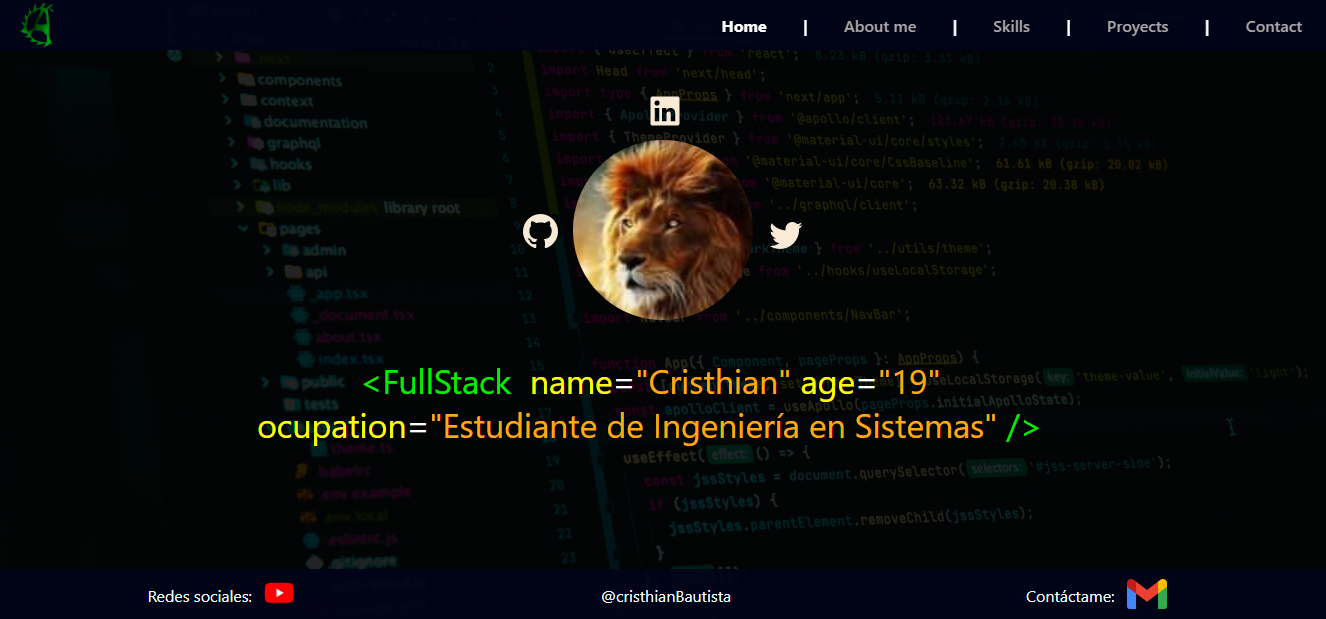
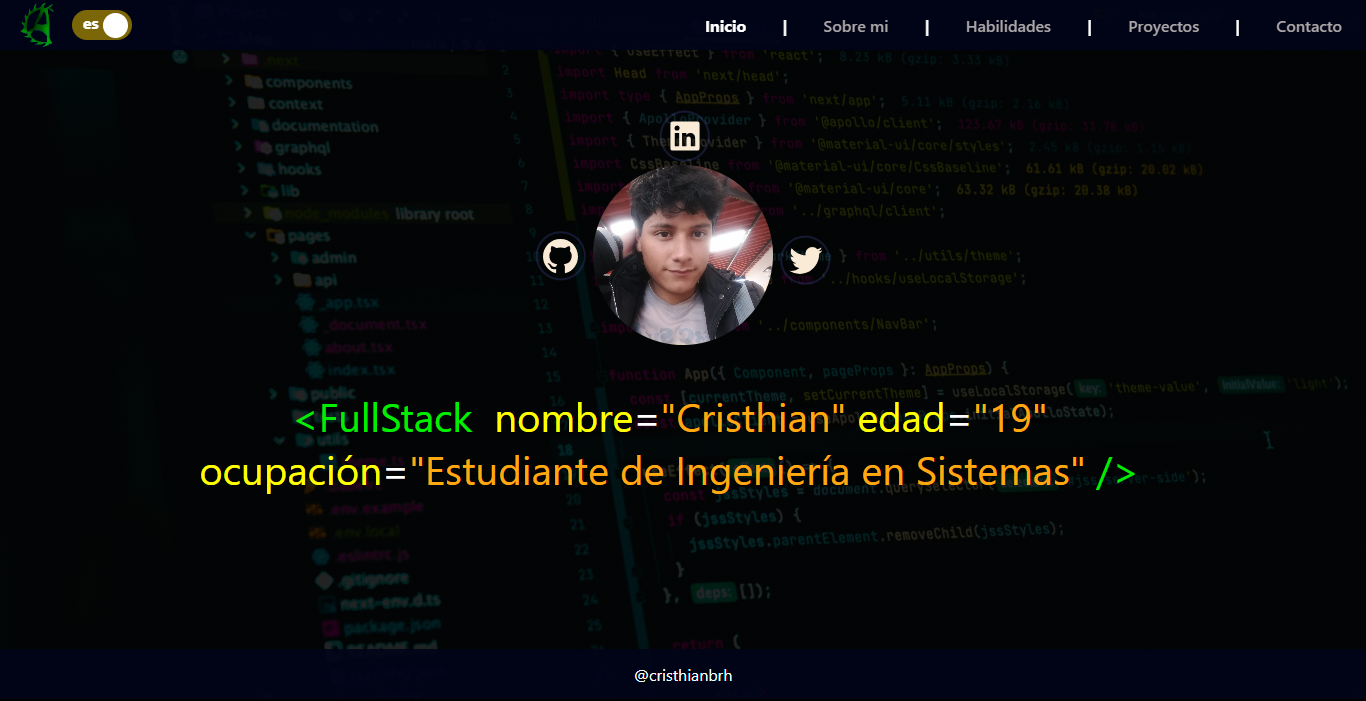
Style mejorado

diff --git a/src/components/sections/aboutMe/AboutMeSection.jsx b/src/components/sections/aboutMe/AboutMeSection.jsx
@@ -2,36 +2,45 @@ import { useContext } from "react";
 import "./AboutMeSection.css";
 import { LanguageF } from "../../../hooks/ContextLanguage";
 import languagePage from "./../../../sources/language/languagePage.json"
+import contactInfo from "../../../sources/info/contact.json"
 
-const AboutMeSection = ({visorRef}) => {
+const AboutMeSection = ({ visorRef }) => {
     const imgProfile = 'img/profile/profile.jpg';
-    const {language} = useContext(LanguageF)
+    const { language } = useContext(LanguageF)
 
-    return(
+    return (
         <section className="aboutMe" id="appSection1" ref={visorRef}>
-                <div className="aboutMe_imgs">
-                    <img src={imgProfile} />
-                    <div>
+            <div className="aboutMe_imgs">
+                <img src={imgProfile} />
+                <div>
+                    <a href={contactInfo.github} target="_blank">
+
                         <svg aria-hidden="true" viewBox="0 0 16 16" version="1.1" width="32" data-view-component="true" >
-                            <path  d="M8 0C3.58 0 0 3.58 0 8c0 3.54 2.29 6.53 5.47 7.59.4.07.55-.17.55-.38 0-.19-.01-.82-.01-1.49-2.01.37-2.53-.49-2.69-.94-.09-.23-.48-.94-.82-1.13-.28-.15-.68-.52-.01-.53.63-.01 1.08.58 1.23.82.72 1.21 1.87.87 2.33.66.07-.52.28-.87.51-1.07-1.78-.2-3.64-.89-3.64-3.95 0-.87.31-1.59.82-2.15-.08-.2-.36-1.02.08-2.12 0 0 .67-.21 2.2.82.64-.18 1.32-.27 2-.27.68 0 1.36.09 2 .27 1.53-1.04 2.2-.82 2.2-.82.44 1.1.16 1.92.08 2.12.51.56.82 1.27.82 2.15 0 3.07-1.87 3.75-3.65 3.95.29.25.54.73.54 1.48 0 1.07-.01 1.93-.01 2.2 0 .21.15.46.55.38A8.013 8.013 0 0016 8c0-4.42-3.58-8-8-8z"></path>
+                            <path d="M8 0C3.58 0 0 3.58 0 8c0 3.54 2.29 6.53 5.47 7.59.4.07.55-.17.55-.38 0-.19-.01-.82-.01-1.49-2.01.37-2.53-.49-2.69-.94-.09-.23-.48-.94-.82-1.13-.28-.15-.68-.52-.01-.53.63-.01 1.08.58 1.23.82.72 1.21 1.87.87 2.33.66.07-.52.28-.87.51-1.07-1.78-.2-3.64-.89-3.64-3.95 0-.87.31-1.59.82-2.15-.08-.2-.36-1.02.08-2.12 0 0 .67-.21 2.2.82.64-.18 1.32-.27 2-.27.68 0 1.36.09 2 .27 1.53-1.04 2.2-.82 2.2-.82.44 1.1.16 1.92.08 2.12.51.56.82 1.27.82 2.15 0 3.07-1.87 3.75-3.65 3.95.29.25.54.73.54 1.48 0 1.07-.01 1.93-.01 2.2 0 .21.15.46.55.38A8.013 8.013 0 0016 8c0-4.42-3.58-8-8-8z"></path>
                         </svg> {/* svg obtenida de la página oficial de github */}
-                        <svg viewBox="0 0 24 24" data-supported-dps="24x24" fill="currentColor"  width="32" focusable="false">
+                    </a>
+                    <a href={contactInfo.linkedin} target="_blank">
+
+                        <svg href={contactInfo.linkedin} viewBox="0 0 24 24" data-supported-dps="24x24" fill="currentColor" width="32" focusable="false">
                             <path d="M20.5 2h-17A1.5 1.5 0 002 3.5v17A1.5 1.5 0 003.5 22h17a1.5 1.5 0 001.5-1.5v-17A1.5 1.5 0 0020.5 2zM8 19H5v-9h3zM6.5 8.25A1.75 1.75 0 118.3 6.5a1.78 1.78 0 01-1.8 1.75zM19 19h-3v-4.74c0-1.42-.6-1.93-1.38-1.93A1.74 1.74 0 0013 14.19a.66.66 0 000 .14V19h-3v-9h2.9v1.3a3.11 3.11 0 012.7-1.4c1.55 0 3.36.86 3.36 3.66z"></path>
                         </svg> {/* svg obtenida de la página oficial de LinkedIn */}
+                    </a>
+                    <a >
                         <svg viewBox="0 0 24 24" aria-hidden="true" >
                             <g><path d="M23.643 4.937c-.835.37-1.732.62-2.675.733.962-.576 1.7-1.49 2.048-2.578-.9.534-1.897.922-2.958 1.13-.85-.904-2.06-1.47-3.4-1.47-2.572 0-4.658 2.086-4.658 4.66 0 .364.042.718.12 1.06-3.873-.195-7.304-2.05-9.602-4.868-.4.69-.63 1.49-.63 2.342 0 1.616.823 3.043 2.072 3.878-.764-.025-1.482-.234-2.11-.583v.06c0 2.257 1.605 4.14 3.737 4.568-.392.106-.803.162-1.227.162-.3 0-.593-.028-.877-.082.593 1.85 2.313 3.198 4.352 3.234-1.595 1.25-3.604 1.995-5.786 1.995-.376 0-.747-.022-1.112-.065 2.062 1.323 4.51 2.093 7.14 2.093 8.57 0 13.255-7.098 13.255-13.254 0-.2-.005-.402-.014-.602.91-.658 1.7-1.477 2.323-2.41z"></path></g>
                         </svg> {/* svg obtenida de la página oficial de twiter */}
-                    </div>
+                    </a>
                 </div>
-                <div className="aboutMe_text">
-                    <p>{languagePage.AboutMe[language].aboutMe_text[0]}</p>
-                    <p>
-                        {languagePage.AboutMe[language].aboutMe_text[1]}<br />
-                        {languagePage.AboutMe[language].aboutMe_text[2]} <em>{languagePage.AboutMe[language].aboutMe_text[3]}</em>{languagePage.AboutMe[language].aboutMe_text[4]}<br />
-                        {languagePage.AboutMe[language].aboutMe_text[5]}<br />
-                    </p>
-                </div>
-            </section>
+            </div>
+            <div className="aboutMe_text">
+                <p>{languagePage.AboutMe[language].aboutMe_text[0]}</p>
+                <p>
+                    {languagePage.AboutMe[language].aboutMe_text[1]}<br />
+                    {languagePage.AboutMe[language].aboutMe_text[2]} <em>{languagePage.AboutMe[language].aboutMe_text[3]}</em>{languagePage.AboutMe[language].aboutMe_text[4]}<br />
+                    {languagePage.AboutMe[language].aboutMe_text[5]}<br />
+                </p>
+            </div>
+        </section>
     )
 }
 export default AboutMeSection;

diff --git a/src/components/sections/presentation/PresentationSection.jsx b/src/components/sections/presentation/PresentationSection.jsx
@@ -2,6 +2,7 @@ import "./PresentationSection.css";
 import languagePage from "./../../../sources/language/languagePage.json"
 import { useContext } from "react";
 import { LanguageF } from "../../../hooks/ContextLanguage";
+import contactInfo from "../../../sources/info/contact.json"
 
 const PresentationSection = ({ visorRef }) => {
     const {language} = useContext(LanguageF)
@@ -27,12 +28,12 @@ const PresentationSection = ({ visorRef }) => {
         <section className="presentation" id="appSection0" ref={visorRef}>
             <div className="presentationImgs">
                 <div className="presentationImgSvgCont">
-                    <a href="https://github.com/cristhianbrh" target="_blank">
+                    <a href={contactInfo.github} target="_blank">
                         <svg aria-hidden="true" viewBox="0 0 16 16" version="1.1" width="32" data-view-component="true">
                             <path  d="M8 0C3.58 0 0 3.58 0 8c0 3.54 2.29 6.53 5.47 7.59.4.07.55-.17.55-.38 0-.19-.01-.82-.01-1.49-2.01.37-2.53-.49-2.69-.94-.09-.23-.48-.94-.82-1.13-.28-.15-.68-.52-.01-.53.63-.01 1.08.58 1.23.82.72 1.21 1.87.87 2.33.66.07-.52.28-.87.51-1.07-1.78-.2-3.64-.89-3.64-3.95 0-.87.31-1.59.82-2.15-.08-.2-.36-1.02.08-2.12 0 0 .67-.21 2.2.82.64-.18 1.32-.27 2-.27.68 0 1.36.09 2 .27 1.53-1.04 2.2-.82 2.2-.82.44 1.1.16 1.92.08 2.12.51.56.82 1.27.82 2.15 0 3.07-1.87 3.75-3.65 3.95.29.25.54.73.54 1.48 0 1.07-.01 1.93-.01 2.2 0 .21.15.46.55.38A8.013 8.013 0 0016 8c0-4.42-3.58-8-8-8z"></path>
                         </svg> {/* svg obtenida de la página oficial de github */}
                     </a>
-                    <a href="https://www.linkedin.com/in/cristhian-alexander-bautista-ruiz-25b74b25b/" target="_blank">
+                    <a href={contactInfo.linkedin} target="_blank">
                         <svg viewBox="0 0 24 24" data-supported-dps="24x24" fill="currentColor"  width="32" focusable="false">
                             <path d="M20.5 2h-17A1.5 1.5 0 002 3.5v17A1.5 1.5 0 003.5 22h17a1.5 1.5 0 001.5-1.5v-17A1.5 1.5 0 0020.5 2zM8 19H5v-9h3zM6.5 8.25A1.75 1.75 0 118.3 6.5a1.78 1.78 0 01-1.8 1.75zM19 19h-3v-4.74c0-1.42-.6-1.93-1.38-1.93A1.74 1.74 0 0013 14.19a.66.66 0 000 .14V19h-3v-9h2.9v1.3a3.11 3.11 0 012.7-1.4c1.55 0 3.36.86 3.36 3.66z"></path>
                         </svg> {/* svg obtenida de la página oficial de LinkedIn */}

diff --git a/src/components/footer/FooterComponent.jsx b/src/components/footer/FooterComponent.jsx
@@ -4,17 +4,17 @@ import socialMedia_gmail from "./../../sources/img/socialMedia/gmail-Icon.png";
 const FooterComponent = () => {
     return (
         <footer>
-            <div>
+            {/* <div>
                 <p>Redes sociales:</p>
                 <img src={socialMedia_youtube} alt="YouTube" />
-            </div>
+            </div> */}
             <div>
-                <p>@cristhianBautista</p>
+                <p>@cristhianbrh</p>
             </div>
-            <div>
+            {/* <div>
                 <p>Contáctame:</p>
                 <img src={socialMedia_gmail} alt="Gmail" />
-            </div>
+            </div> */}
         </footer>
     )
 }

diff --git a/src/components/proyect/ProyectComponent.css b/src/components/proyect/ProyectComponent.css
@@ -1,7 +1,7 @@
 /* Proyects */div.ProyectComponentClass {
     /* width: fit-content; */
-    width: clamp(18.75rem, 40vw,31.25rem);
-    /* max-width: 500px; */
+    /* width: clamp(18.75rem, 40vw,31.25rem); */
+    max-width: 400px;
     /* min-width: 300px; */
     height: 90%;
     margin: auto;
@@ -50,6 +50,7 @@ div.ProyectComponentClass>div.imagesProyectsDisplay {
     padding-top: 5px;
     position: relative;
     cursor: pointer;
+    align-items: center;
 }
 .__visibleNot{
     display: none;
@@ -109,3 +110,4 @@ div.ProyectComponentClass>div.proyectsTecProyect>div>img {
     /* height: 50px; */
     height: clamp(2.5rem, 5vw, 3.125rem);
 }
+

diff --git a/src/components/ImagesView/ImagesViewComponent.jsx b/src/components/ImagesView/ImagesViewComponent.jsx
@@ -46,9 +46,10 @@ const ImagesViewComponent = ({ proyect, imgComplete, setImgComplete }) => {
                 Path: "img/devices/Mobile.png",
                 StyleBorderImage: {
                     borderWidth: "18px 15px 16px 15px",
-                    borderImageSource: 'url(img/devices/Mobile.png)',
+                    WebkitBorderImage: 'round',
                     borderImageSlice: "2% 4% 3.5% 4% fill",
                     borderImageRepeat: "initial",
+                    
                     borderImageWidth: "18px 15px 16px 15px",
                     borderStyle: "solid",
                     borderRadius: "42px"

diff --git a/src/components/skillImage/SkillImageComponent.css b/src/components/skillImage/SkillImageComponent.css
@@ -1,7 +1,8 @@
 .SkillImageComponent {
     position: relative;
     width: fit-content;
-    
+    display: flex;
+    justify-content: center;
 }
 
 .SkillImageComponentSpan {
@@ -22,6 +23,7 @@
 .SkillImageComponentSpan__Active {
     display: block;
     /* top: -40%; */
+    /* right: -50%; */
     color: green;
     animation: spanActive both .5s linear;
     transition: 5s all;
@@ -40,7 +42,7 @@
         opacity: 0;
     }
     100%{
-        top: -40%;
+        top: -50%;
         opacity: 1;
     }
 }

diff --git a/src/components/footer/FooterComponent.css b/src/components/footer/FooterComponent.css
@@ -17,15 +17,13 @@ footer>div
 {
     display: flex;
 }
-footer>div img{
-    /* height: 30px; */
+/* footer>div img{
     height: clamp(.9375rem, 2vw,1.875rem);
     margin: auto 12px;
     cursor: pointer;
 }
 footer>div img:hover{
-    /* height: 37px; */
     height: clamp(1.125rem, 2vw,2.3125rem);
     box-shadow: 0px 4px 0px #0ADBB8; 
     transition: all 0.5s; 
-}
+} */

diff --git a/src/components/sections/skills/SkillsSection.css b/src/components/sections/skills/SkillsSection.css
@@ -95,3 +95,15 @@ section.skills>div>.contentSkills>div>div>img
     /* height: 50px; */
     height: clamp(2.5rem, 5vw, 3.125rem);
 } 
+
+
+@media only screen and (max-width: 810px) {
+    section.skills>div {
+        margin: 0 5px;
+        transition: 1s all;
+    }
+    section.skills>div>.contentSkills>div {
+        gap: 30px;
+        justify-content: center;
+    }
+}

diff --git a/src/components/sections/aboutMe/AboutMeSection.css b/src/components/sections/aboutMe/AboutMeSection.css
@@ -33,7 +33,7 @@ section.aboutMe>div.aboutMe_imgs>div {
     justify-content: space-around;
 }
 
-section.aboutMe>div.aboutMe_imgs>div>svg {
+section.aboutMe>div.aboutMe_imgs>div>a>svg {
     width: 45px;
     cursor: pointer;
     fill: #84eedc;

diff --git a/src/components/sections/contact/ContactSection.css b/src/components/sections/contact/ContactSection.css
@@ -51,7 +51,7 @@ section.contact>.sendMessage>form p
 section.contact>.sendMessage>form textarea
 {
     width: 300px;
-    text-align: justify;
+    text-align: left;
     padding: 5px;
 }
 section.contact>.sendMessage>form button

diff --git a/src/components/sections/proyects/ProyectsSection.css b/src/components/sections/proyects/ProyectsSection.css
@@ -45,3 +45,5 @@ section.proyects>div::-webkit-scrollbar-thumb{
     border-radius: 20px;
     border: 3px solid rgb(43, 255, 0);
 }
+
+
